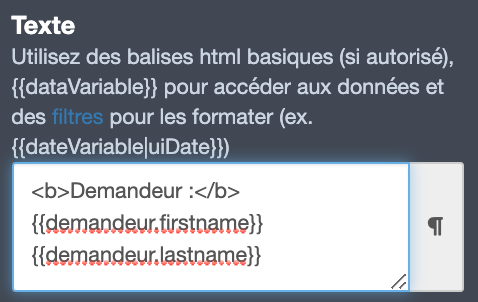
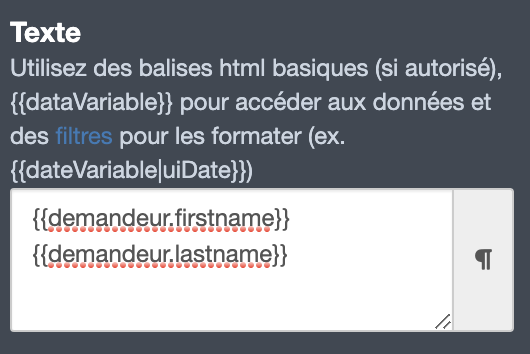
Update(bonita-camp-FR): update exercises FR DAY 1 - modify structure and change images with Bonita 2021.1

diff --git a/docs/fr/04-actors.md b/docs/fr/04-actors.md
@@ -4,21 +4,21 @@ title: Exercice 4 - Gestion d'acteurs
 
 ## Objectif
 
-L'objectif de cet exercice est d'apporter une notion de collaboration au processus existant en distribuant les tâches entre deux acteurs : le demandeur et le validateur.
+L'objectif de cet exercice est d'apporter une notion de collaboration au processus existant en distribuant les tâches entre deux acteurs : le demandeur et l'approbateur.
 
 ## Instructions résumées
 
 Dupliquer le diagramme de processus de l'exercice précédent pour créer une version *3.0.0*.
 
-Ajouter une lane *Validateur* au diagramme et y déplacer la tâche *Valider demande*.
+Ajouter une lane *Approbateur* au diagramme et y déplacer la tâche *Valider demande*.
 
-Configurer un filtre d'acteur de type **Manager de l'initiateur du processus** sur la lane *Validateur*.
+Définir un rôle *approbateur* dans l'organisation et l'associer à l'acteur de la lane *Approbateur*.
 
 ## Instructions pas à pas
 
 1. Dupliquer le diagramme de processus de l'exercice précédent pour créer une version *3.0.0*
 
-1. Ajouter une lane *Validateur* au diagramme :
+1. Ajouter une lane *Approbateur* au diagramme :
    - Sélectionner l'élément lane à partir de la palette d'éléments BPMN présente sur le côté gauche du Studio :
    
    ![élément lane dans la palette BPMN](images/ex04/ex4_01.png)
@@ -26,32 +26,53 @@ Configurer un filtre d'acteur de type **Manager de l'initiateur du processus** s
    - Cliquer dans le pool du processus pour ajouter la lane
    - Sélectionner la lane
    - Naviguer dans l'onglet **Général / Lane**
-   - Modifier le nom en *Validateur*
+   - Modifier le nom en *Approbateur*
 
 1. Renommer l'autre lane en *Demandeur*
 
-1. Faire glisser la tâche *Valider demande* dans la lane *Validateur*
-
-1. Configurer un filtre d'acteur de type **Manager de l'initiateur du processus** sur la lane *Validateur* :
-   - Sélectionner la lane *Validateur*
-   - Naviguer dans l'onglet **Général / Acteurs**
-   - Sélectionner l'acteur *Employee actor* à partir du menu déroulant
-   - Cliquer sur le bouton **Définir...** associé au filtre
-   - Sélectionner un filtre de type **Manager de l'initiateur du processus**
-   - Cliquer sur **Suivant**
-   - Nommer le filtre *managerInitiateur*
-   - Cliquer sur **Terminer**
+1. Faire glisser la tâche *Valider demande* dans la lane *Approbateur*
 
 1. Vérifier que le diagramme ressemble à ceci :
 
    ![diagramme avec deux lanes](images/ex04/ex4_02.png)
 
+1. Créer un rôle *approbateur* dans l'organisation :
+   - Dans l'explorateur du projet, cliquer sur **Organisation** et sélectionner l'organisation de test *ACME.organisation*.   
+     L'éditeur d'organisation s'ouvre, avec la vue d'ensemble sur les groupes, les rôles et les utilisateurs.
+     ![éditeur organisation](images/ex04/ex4_03.png)
+   - Cliquer sur le crayon pour éditer les rôles. 
+   - Cliquer sur **Ajouter un rôle** (A) puis éditer (B) le nom technique du rôle (en cliquant sur le crayon) pour indiquer *approbateur*.
+   - Nommer le rôle *Approbateur*.
+   ![ajouter un rôle](images/ex04/ex4_04.png)
+     Associer ce nouveau rôle à l'utilisateur *Helen Kelly* qui est en charge de la validation des congés de notre utilisateur par défaut *Walter Bates*.
+   - Aller dans l'onglet **Utlisateur** et sélectionner *Helen Kelly*.
+   - Dans la section **Adhésion**, modifier le rôle de *member* à *approbateur*
+     ![ajouter une adhésion](images/ex04/ex4_09.png)
+   - Déployer l'organisation pour prendre en compte les changements en cliquant sur l'icône **Déployer**.  
+   >**Note** Pour aller plus loin, il est aussi possible de définir un filtre d'acteur. Cette méthode est décrite dans un prochain exercice.
+   
+1. Définir les acteurs du processus
+   - Revenir sur le diagramme et sélectionner la lane *Approbateur*
+   - Naviguer dans l'onglet **Général / Acteur**
+   - Cliquer sur le bouton **Ajouter**
+   ![ajouter un acteur](images/ex04/ex4_05.png)
+   - Dans le champ **Nom** indiquer *approbateur*. Ne pas cocher la case **Initiateur** car l'initiateur est le demandeur.
+   - Cliquer sur **Terminer**
+   - Vérifier que l'acteur défini dans la lane *Demandeur* est bien l'acteur par défaut *Employee actor*
+
+1. Lier l'organisation aux acteurs du processus :
+   - Cliquer sur l'icône *Configurer* ![configurer](images/ex04/ex4_06.png) qui va permettre d'associer les acteurs aux bons rôles dans l'organisation.
+   - Dans l'éditeur, sélectionner **Association acteurs/utilisateurs**. L'employee actor est déjà associé à un groupe, il faut donc faire de même avec l'acteur **approbateur**
+   - Sélectionner l'acteur **approbateur** (A) puis cliquer sur le bouton **Rôles** (B)
+   - Dans la fenêtre, sélectionner le rôle **approbateur** (C)
+    ![mapping acteur](images/ex04/ex4_07.png)
+
 1. Exécuter le processus avec les deux acteurs :
    - Lancer le processus à partir du Studio (l'utilisateur Walter Bates sera utilisé)
    - Soumettre le formulaire de *Saisie demande congés*. Si les acteurs sont correctement configurés, la tâche *Valider demande de congés* ne devrait pas être proposée
-   - Se déconnecter du portail en naviguant sur le nom d'utilisateur dans le coin supérieur droit puis **Déconnexion** :
+   - Se déconnecter de l'application utilisateur en naviguant sur le nom d'utilisateur dans le coin supérieur droit puis **Déconnexion** :
 
-   ![déconnexion du portail](images/ex04/ex4_03.png)
+   ![déconnexion du portail](images/ex04/ex4_08.png)
    
    - Se connecter avec l'utilisateur *helen.kelly* et le mot de passe *bpm*
    - Si le filtre d'acteur s'est bien exécuté, la tâche *Valider demande de congés* devrait être disponible dans la liste des tâches à faire

diff --git a/docs/fr/02-data-contract.md b/docs/fr/02-data-contract.md
@@ -33,11 +33,6 @@ Déclarer une variable métier *demande* de type *DemandeConges* sur le pool.
 -   dateDebut
 -   nombreJours
 
-Ajouter les deux contraintes suivantes sur le contrat d'instanciation :
-
--   *dateDebut* doit être dans le futur
--   *nombreJours* doit être strictement supérieur à zéro
-
 Initialiser le BDM *demande* en utilisant la génération automatique à partir du contrat.
 
 Ajouter un contrat sur l'étape *Valider demande* en utilisant l'assistant avec l'élément suivant :
@@ -47,10 +42,12 @@ Ajouter un contrat sur l'étape *Valider demande* en utilisant l'assistant avec 
 ## Instructions pas à pas
 
 1. Dupliquer le diagramme de processus existant pour créer une version *2.0.0* :
-   - Dans le menu supérieur du Studio, cliquer sur **Fichier / Dupliquer le diagramme...**
+   - Dans l'explorateur du projet, faire un clic droit sur le diagramme et **Dupliquer**
    - Mettre à jour les numéros de version du diagramme ET du processus (pool)
 1. Créer le BDM *DemandeConges* :
-   - Naviguer dans le menu **Développement / Modèle de Données Métier / Définir...** L'éditeur de Modèle de données métier s'ouvre.
+   - Cliquer sur l'icône **Vue d'ensemble** ![overview](images/ex02/ex2_13.png) du projet. Cliquer sur **Créer** de la section *Modèle de Données Métier*.
+     
+     L'éditeur de Modèle de données métier s'ouvre.
    - Renommer l'objet initialisé par défaut **BusinessObject** dans la liste d'objets métiers en *DemandeConges* (A) (il s'agit d'un nom technique, il faut donc omettre les espaces, accents et autres caractères spéciaux)
    - Avec l'objet *DemandeConges* sélectionné, ajouter les attributs suivants (B) :
 
@@ -98,25 +95,6 @@ Ajouter un contrat sur l'étape *Valider demande* en utilisant l'assistant avec 
    
    ![contrat défini pour le démarrage du processus](images/ex02/ex2_04.png)
    
-   - Toujours dans l'onglet **Exécution / Contrat**, basculer dans l'onglet **Contraintes**
-   - Ajouter la contrainte suivante :
-
-   Propriété | Valeur
-   --------- | ------
-   Nom         | dateDebutDansFutur
-   Expression  | `demandeInput.dateDebut.isAfter(java.time.LocalDate.now())`
-   Message d'erreur | La date de début doit être dans le futur
-
-   - Ajouter une seconde contrainte :
-
-   Propriété | Valeur
-   --------- | ------
-   Nom         | auMoinsUnJour
-   Expression  | `demandeInput.nombreJours > 0`
-   Message d'erreur | Le nombre de jours doit être supérieur à zéro
-
-   ![définition de contraintes](images/ex02/ex2_05.png)
-   
 1. Modifier l'initialisation de la variable métier *demande* pour pouvoir récupérer l'initiateur de la nouvelle demande :
    - Sélectionner le pool du processus et naviguer dans l'onglet **Données / Variables du pool**
    - Sélectionner la variable *demande*
@@ -147,17 +125,16 @@ Ajouter un contrat sur l'étape *Valider demande* en utilisant l'assistant avec 
    - Sélectionner la transition *Oui*
    - Naviguer dans l'onglet **Général / Général**
    - Cliquer sur l'icône crayon à côté du champ **Condition** pour ouvrir l'éditeur d'expression
-   - Dans l'éditeur d'expression, sélectionner **Java** comme type d'expression
-   - Sélectionner la variable *demande* et la méthode *isEstAprouvee*
+   - Dans l'éditeur d'expression, sélectionner **Variables métier/estApprouvee** et le glisser dans l'éditeur d'expression à la place de `true`
    
    ![utilisation de variable métier pour définir la condition d'une transition](images/ex02/ex2_07.png)
    
 1. Enregistrer le processus :
    - Cliquer sur le bouton **Enregistrer** de la barre de menu supérieur du Studio
-1. Exécuter le processus et tester les contraintes des contrats :
+1. Exécuter le processus :
    - Lancer le processus et remplir les formulaires automatiquement générés
 
-> ℹnformation :
+> ℹ Information :
 > - pour le champ *dateDebut*, le format de date attendu est AAAA-MM-JJ
 > - pour le champ *estApprouvee*, une valeur booléenne est attendue : soit `true` ou `false`
 

diff --git a/docs/fr/05-connectors.md b/docs/fr/05-connectors.md
@@ -22,7 +22,6 @@ Le code ci-dessous sera utilisé pour récupérer l'email du demandeur dans le c
 ```groovy
 BonitaUsers.getProcessInstanceInitiatorProfessionalContactInfo(apiAccessor,processInstanceId).email
 ```
-
 ## Instructions pas à pas
 
 1. Mise en place de FakeSMTP :
@@ -33,47 +32,29 @@ BonitaUsers.getProcessInstanceInitiatorProfessionalContactInfo(apiAccessor,proce
 
 1. Dupliquer le diagramme de processus de l'exercice précédent pour créer une version *3.1.0*
 
-1. Tester le connecteur d'envoi d'email pour obtenir la bonne configuration SMTP :
-   - Naviguer dans le menu **Développement / Connecteurs / Tester un connecteur...** de la barre supérieur du Studio
-   - Sélectionner un connecteur de type **Courriel** à partir du filtre ou depuis la catégorie **Communications**
+1. Ajouter un connecteur d'envoi d'email sur la tâche *Notifier approbation* :
+   - Sélectionner la tâche *Notifier approbation*
+   - Naviguer dans l'onglet **Exécution / Connecteurs en entrée**
+   - Cliquer sur **Ajouter\...**
+     Un avertissement  indique qu'aucun connecteur n'a été préalablement installé dans le projet et invite à le faire. 
+     
+     ![avertissement connecteur](images/ex05/ex5_00.png)
+     >**Note** : Les extensions peuvent être récupérées depuis le Bonita MarketPlace ou depuis des répertoires distants privés ou publiques. Si vous souhaitez aller plus loing, le développement et la gestion de ces extensions sont abordées dans un prochain exercice.
+   - Cliquer sur OK pour accéder au MarketPlace et sélectionner le connecteur **Email** dans la liste.  
+     ![MarketPlace](images/ex05/ex5_02.png)
+   - Cliquer sur **Installer**  
+   - Sélectionner la définition de connecteur de type **Courriel**
    - Cliquer sur le bouton **Suivant**
+   - Spécifier *envoiEmailApprobation* comme nom
+   - Passer à la page suivante
    - Remplir les paramètres de connexion suivants :
 
    Propriété | Valeur
    --------- | ------
    Hôte SMTP | *localhost*
    Port SMTP | *2525* (le port spécifié dans FakeSMTP)
-   SSL (sous l'onglet **Sécurité**) | décoché
+   SSL (sous l'onglet **Sécurité**) | décoché 
 
-   - Passer à la page suivante
-   - Entrer des emails (pas nécessairement existants) en tant que  destinataire et expéditeur
-   - Passer à la page suivante
-   - Entrer *Bonita test* comme sujet
-   - Cliquer le bouton **Test**
-   - Confirmer sans cocher de dépendance
-   - Un message similaire à celui ci-dessous devrait s'afficher, cliquer sur le bouton **OK** :
-   
-   ![message avertissement sortie non-sérialisable](images/ex05/ex5_00.png)
-   
-   - S'assurer que l'email est bien reçu par FakeSMTP comme illustré ci-dessous :
-   
-   ![Fake SMTP avec un message reçu](images/ex05/ex5_01.png)
-   
-   - Une fois la configuration validée, cliquer sur ![bouton enregistrer](images/ex05/ex5_02.png)
-   - Nommer la configuration *configEmail* et la sauvegarder
-   - Fermer l'interface de test du connecteur
-
-1. Ajouter un connecteur d'envoi d'email sur la tâche *Notifier approbation* :
-   - Sélectionner la tâche *Notifier approbation*
-   - Naviguer dans l'onglet **Exécution / Connecteurs en entrée**
-   - Cliquer sur **Ajouter\...**
-   - Sélectionner un connecteur de type **Courriel**
-   - Cliquer sur le bouton **Suivant**
-   - Spécifier *envoiEmailApprobation* comme nom
-   - Passer à la page suivante
-   - Ne pas remplir les paramètres de la page
-   - Cliquer sur ![bouton charger](images/ex05/ex5_03.png)
-   - Sélectionner la configuration *configEmail*
    - Passer à la page de configuration du destinataire
    - Entrer *rh@acme.com* comme adresse email dans le champ expéditeur **De**
    - Utiliser l'icône **crayon** pour éditer l'expression sur le champ destinataire **A**

diff --git a/docs/fr/03-forms.md b/docs/fr/03-forms.md
@@ -4,7 +4,7 @@ title: Exercice 3 - Création de formulaires
 
 ## Objectif
 
-L'objectif de cet exercice est de fournir des formulaires conviviaux et adaptés pour l'exécution du processus.
+L'objectif de cet exercice est de fournir des formulaires simplifiés conviviaux et adaptés pour l'exécution du processus.
 
 ## Instructions résumées
 
@@ -58,18 +58,6 @@ Créer les formulaires suivants :
    Libellé | Nombre de jours
    Placeholder | Nombre de jours de congés
    Valeur minimum (à ne pas confondre avec la propriété **Longueur minimum de la valeur**) | 1
-   
-1. Supprimer les valeurs initiales des champs (cela permettra d'afficher les placeholders lors du rendu final) :
-   - Dans la partie inférieure de l'écran, sous l'onglet **Variables**, cliquer sur l'icône **Crayon** situé à droite de la ligne contenant la variable *formInput*
-   - Remplacer la valeur du JSON par ceci :
-   ```json
-   {
-     "demandeInput" : {
-       "dateDebut" : null,
-       "nombreJours" : null
-     }
-   }
-   ```
 
 1. Changer le widget **Button** *Submit* :
    - Sélectionner le widget *Submit*
@@ -111,6 +99,7 @@ Créer les formulaires suivants :
    - Cliquer sur le bouton **Créer une nouvelle variable** pour définir une variable avec les propriétés suivantes :
 
    ![propriétés variable demandeur](images/ex03/ex3_03.png)
+   > **Note :** vous pouvez utiliser les exemples qui vous permettent de récupérer automatiquement des modèles d'appels API. Ici on va récupérer `identity API` car on cherche les informations liées à un utilisateur.
 
 1. Modifier le titre du formulaire
    - Sélectionner le widget de type **Titre** situé en haut du formulaire
@@ -121,39 +110,14 @@ Créer les formulaires suivants :
    Texte | Valider une demande de congés
    Niveau du titre | Niveau 2
 
-1. Supprimer le widget *Id demandeur* et mettre à la place un widget pour présenter le prénom et nom du demandeur :
-   - Faire glisser un widget de type **Text**
-   - Configurer le widget comme ceci : `<b>Demandeur : </b>{{firstname}} {{lastname}}`
+1. Modifier le widget *Id demandeur* pour p`résenter le prénom et nom du demandeur :
+   - Changer la valeur du libellé du widget **Texte** et indiquer *Demandeur*
+   - Configurer le champ **Texte** avec les variables : `{{demandeur.firstname}} {{demandeur.lastname}}`
+     ![propriétés texte demandeur](images/ex03/ex3_04.png)
 
-  ![propriétés texte demandeur](images/ex03/ex3_04.png)
-
-1. Ajouter un widget pour refuser la demande:
-   - Faire glisser un widget de type **Button** et l'ajouter dans le form container (zone délimitée par une ligne pointillée épaisse)
-   - Configurer le widget comme ceci :
-
-   Propriété | Valeur
-   --------- | ------
-   largeur | 6
-   Libellé | Refuser
-   Alignement | à droite
-   Style | danger
-   Données envoyées au clic | `{"demandeInput":{"estApprouvee":false}}`
-   Valeur de réponse en cas d'échec | `formOutput._submitError`
-   URL cible en cas de succès | `/bonita`
-
-1. Ajouter un widget pour approuver la demande
-   - Faire glisser un widget de type **Button** dans la zone "6 colonnes" à droite du bouton *Refuser*
-   - Configurer le widget comme ceci :
-
-   Propriété | Valeur
-   --------- | ------
-   Libellé | Approuver
-   Style | success
-   Données envoyées au clic | `{"demandeInput":{"estApprouvee":true}}`
-   Valeur de réponse en cas d'échec | `formOutput._submitError`
-   URL cible en cas de succès | `/bonita`
-
-1. Supprimer la case à cocher *Est Approuvee* et le bouton *Submit*
+1. Changer le widget **Button** *Submit* :
+   - Sélectionner le widget *Submit*
+   - Changer son libellé en *Soumettre*
 
 1. Vérifier le formulaire :
    - S'assurer que le formulaire ressemble à ceci :

diff --git a/docs/fr/01-bpmn-design.md b/docs/fr/01-bpmn-design.md
@@ -29,11 +29,18 @@ Le pool du processus devra contenir les éléments BPMN suivants :
 ## Instructions pas à pas
 1. Démarrer le Studio Bonita
 1. Sur la page d'accueil du Studio, cliquer sur **Nouveau projet** dans le menu Concevoir
-1. Entrer le nom du projet *"DemandeConges"*
+1. Entrer le nom du projet *"DemandeConges"* et cliquer sur **Créer**
+
+> Note : Vous avez la possibilité de choisir dès la création du projet les extensions à intégrer. Cela peut être utile dans le cas d'un projet réel, mais dans notre exemple nous aborderons les extensions plus tard.
+   
 1. Créer un nouveau diagramme de processus 
+   - Soit depuis la vue générale du projet, en cliquant sur **Créer**
+     ![Creer diagramme](images/ex01/ex1_11.png)
+   - Soit depuis le menu
     ![Nouveau diagramme](images/ex01/ex1_10.png)
+     
 1. Spécifier le nom du diagramme et celui du processus :
-   - Cliquer sur le menu **Fichier / Renommer le diagramme...** en haut du Studio
+   - Cliquer à droite sur le nom du diagramme *MonDiagramme-1.0.proc* dans l'explorateur, **Renommer**
    - Entrer *DiagrammeDemandeConges* pour le nom du diagramme et *DemandeConges* pour celui du pool et *1.0.0* pour la version du diagramme et du pool  
    ![pop up de modification de nom et version de diagramme et pool](images/ex01/ex1_01.png)
 1. Renommer l'événement de démarrage en *Saisir demande* :
